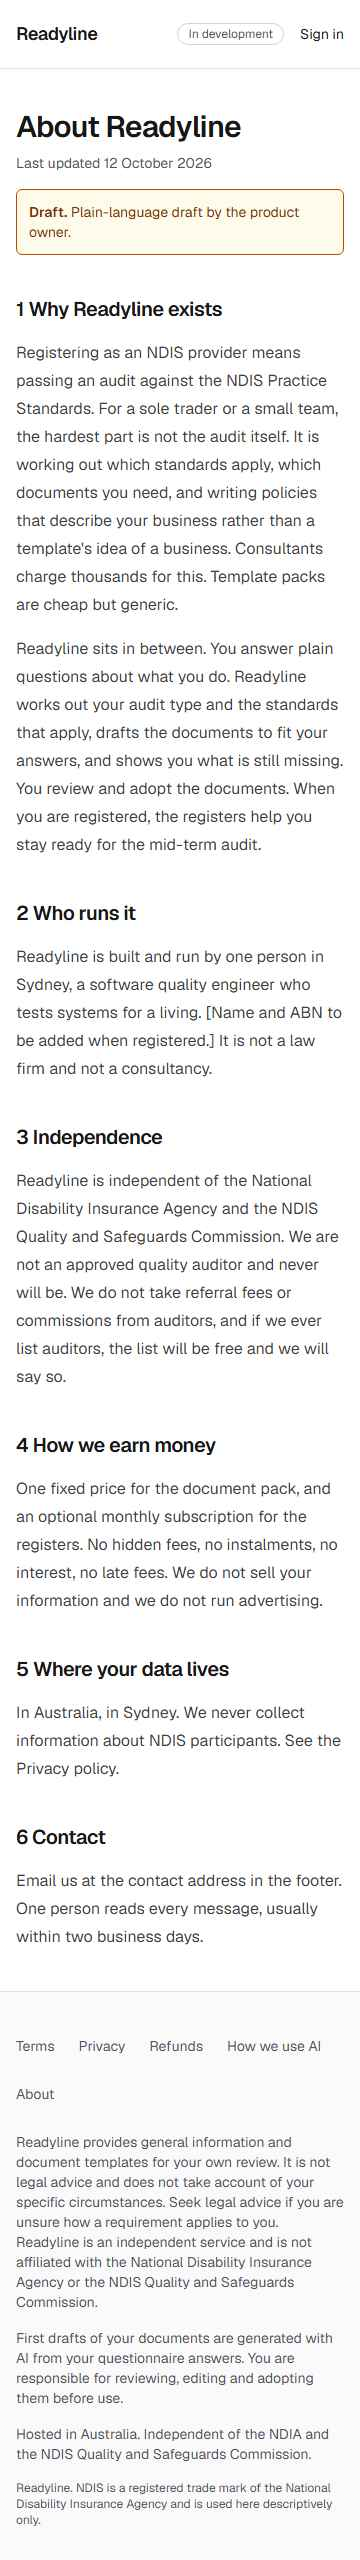
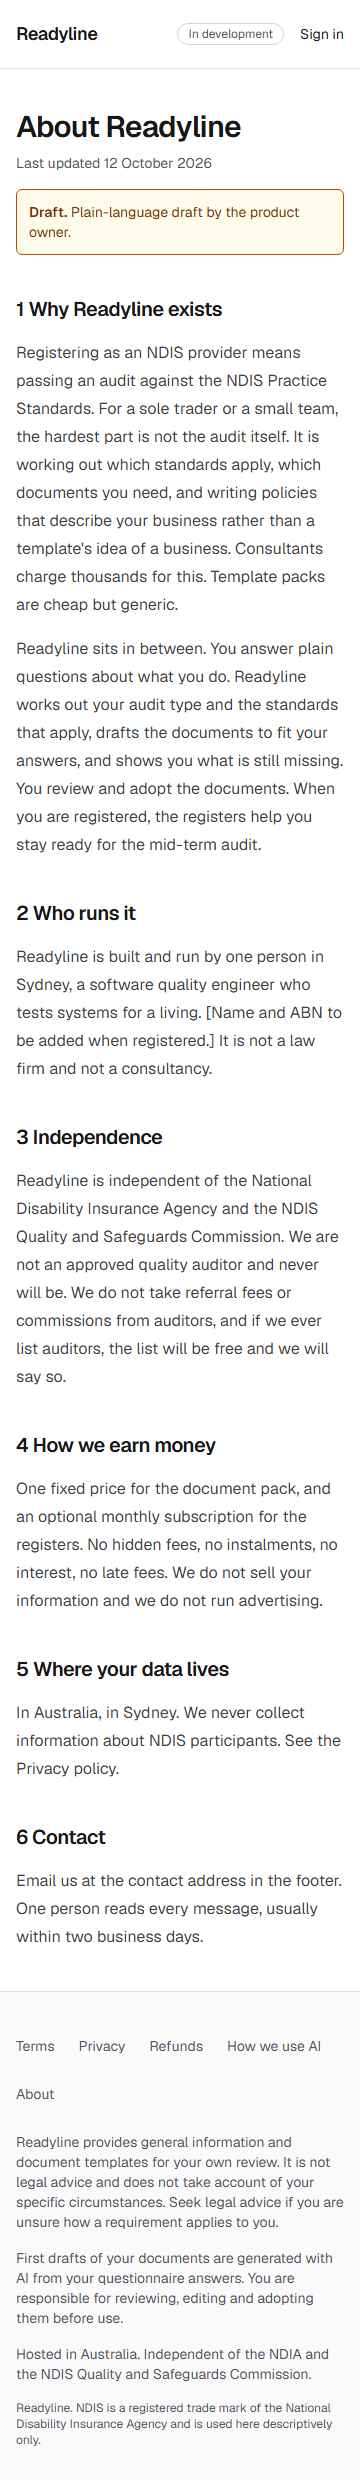
REQ-008 footer: state independence once (trust line), general-information statement without it (D-805)
GENERAL_INFORMATION_NOTICE is composed from GENERAL_INFORMATION_STATEMENT and INDEPENDENCE_STATEMENT so
generated documents keep the full notice; the footer shows the statement, the AI disclosure and the trust
line. Footer screenshots re-captured at both viewports.

Changed region(s): [[0.0306, 0.0, 0.9472, 0.9935], [0.9167, 0.0931, 0.9472, 0.1242]]

diff --git a/src/lib/claims.test.ts b/src/lib/claims.test.ts
@@ -4,7 +4,13 @@ import {
   findProhibitedClaims,
   isBrandNameAllowed,
 } from "./claims";
-import { AI_DISCLOSURE, BRAND, GENERAL_INFORMATION_NOTICE } from "./brand";
+import {
+  AI_DISCLOSURE,
+  BRAND,
+  GENERAL_INFORMATION_NOTICE,
+  GENERAL_INFORMATION_STATEMENT,
+  INDEPENDENCE_STATEMENT,
+} from "./brand";
 
 describe("findProhibitedClaims", () => {
   it.each([
@@ -77,6 +83,17 @@ describe("brand and site notices", () => {
     expect(GENERAL_INFORMATION_NOTICE).toMatch(/seek legal advice/i);
     expect(GENERAL_INFORMATION_NOTICE).toMatch(/not affiliated/i);
     expect(findProhibitedClaims(GENERAL_INFORMATION_NOTICE)).toEqual([]);
+    // The footer shows the statement without the independence sentence (its trust line says it once).
+    expect(GENERAL_INFORMATION_STATEMENT).toMatch(/general information/i);
+    expect(GENERAL_INFORMATION_STATEMENT).toMatch(/not legal advice/i);
+    expect(GENERAL_INFORMATION_STATEMENT).toMatch(/seek legal advice/i);
+    expect(GENERAL_INFORMATION_STATEMENT).not.toMatch(
+      /affiliated|independent/i,
+    );
+    expect(INDEPENDENCE_STATEMENT).toMatch(/not affiliated/i);
+    expect(GENERAL_INFORMATION_NOTICE).toBe(
+      `${GENERAL_INFORMATION_STATEMENT} ${INDEPENDENCE_STATEMENT}`,
+    );
   });
 
   it("AI disclosure names AI and the provider's responsibility", () => {

diff --git a/src/lib/brand.ts b/src/lib/brand.ts
@@ -13,12 +13,17 @@ export const BRAND =
  * Plain-language statement required on the site footer and in every generated
  * document (CLAUDE.md sections 4.2 and 4.3).
  */
-export const GENERAL_INFORMATION_NOTICE =
+export const GENERAL_INFORMATION_STATEMENT =
   `${BRAND} provides general information and document templates for your own review. ` +
   `It is not legal advice and does not take account of your specific circumstances. ` +
-  `Seek legal advice if you are unsure how a requirement applies to you. ` +
+  `Seek legal advice if you are unsure how a requirement applies to you.`;
+
+export const INDEPENDENCE_STATEMENT =
   `${BRAND} is an independent service and is not affiliated with the National Disability ` +
   `Insurance Agency or the NDIS Quality and Safeguards Commission.`;
+
+/** Documents carry both sentences together; the site footer carries the statement and its own trust line (REQ-008, D-805). */
+export const GENERAL_INFORMATION_NOTICE = `${GENERAL_INFORMATION_STATEMENT} ${INDEPENDENCE_STATEMENT}`;
 
 /**
  * AI transparency statement (CLAUDE.md sections 4.3 and 5).

diff --git a/src/components/site-footer.tsx b/src/components/site-footer.tsx
@@ -1,5 +1,9 @@
 import Link from "next/link";
-import { AI_DISCLOSURE, BRAND, GENERAL_INFORMATION_NOTICE } from "@/lib/brand";
+import {
+  AI_DISCLOSURE,
+  BRAND,
+  GENERAL_INFORMATION_STATEMENT,
+} from "@/lib/brand";
 import { businessAbn, contactEmail } from "@/lib/legal/config";
 import { LEGAL_NAV } from "@/lib/legal/nav";
 
@@ -40,7 +44,8 @@ export function SiteFooter() {
             ) : null}
           </ul>
         </nav>
-        <p data-testid="site-disclaimer">{GENERAL_INFORMATION_NOTICE}</p>
+        {/* Independence is stated once, in the trust line below (PO review of REQ-008). */}
+        <p data-testid="site-disclaimer">{GENERAL_INFORMATION_STATEMENT}</p>
         <p data-testid="ai-disclosure">{AI_DISCLOSURE}</p>
         <p data-testid="footer-trust">
           Hosted in Australia. Independent of the NDIA and the NDIS Quality and

diff --git a/product/requirements/REQ-008-legal-trust-pages.md b/product/requirements/REQ-008-legal-trust-pages.md
@@ -84,5 +84,7 @@ Noted: the PO owes the copy in `product/legal/` and has delivered first drafts; 
 
 Push: branch `req-008-legal-pages`; the PO opens the PR.
 
+**2026-10-12 (batch 15, item 3), footer dedupe on `req-008-footer-dedupe` from `main` (PR #12 merged).** The footer's general-information paragraph no longer carries the independence sentence; the trust line states it once (D-805). `GENERAL_INFORMATION_NOTICE` is unchanged in content for generated documents (now composed from `GENERAL_INFORMATION_STATEMENT` and `INDEPENDENCE_STATEMENT`), with a unit test pinning the split. Footer screenshots re-captured at both viewports into `product/evidence/req-008/footer-<project>.jpg` (the five page screenshots and request logs were re-captured in the same run).
+
 ## PO review
 **12 Oct 2026 (branch `req-008-legal-pages`, 792e113; PR #12): ACCEPTED.** Pages, footer, draft note, last-updated line and the no-third-party test are as specified; screenshots reviewed at 360 px. D-801 (own front-matter parser instead of gray-matter), D-802 (quoted banned words on the AI page exempt from the claims lint, on that page only) and D-803 (readability module copied until PR #9 merges) accepted. One cosmetic item for a later batch, not blocking: the footer states independence from the NDIA and the Commission twice (in the general-information paragraph and in the trust line); keep the trust line and shorten the paragraph. Merge when CI is green. Lighthouse: Haider records the score once when he next runs the app.

diff --git a/DECISIONS.md b/DECISIONS.md
@@ -810,6 +810,15 @@ Both are listed in `.env.example`, and `CONTACT_EMAIL` in `REQUIRED_LATER`.
 The no-third-party test allows only the app host and the Supabase project
 host; Stripe hosts are added per purchase route by REQ-007.
 
+**D-805 Footer states independence once (Dev, 2026-10-12, PO review of
+REQ-008; branch `req-008-footer-dedupe`).** `GENERAL_INFORMATION_NOTICE` is
+now the general-information statement (three sentences) followed by the
+independence statement, as two exported constants. Generated documents keep
+the full notice (CLAUDE.md 4.2 and the house style's fixed text are
+unchanged); the site footer shows the statement, the AI disclosure and the
+trust line "Hosted in Australia. Independent of the NDIA and the NDIS Quality
+and Safeguards Commission.", so independence appears once on the page.
+
 ## REQ-013: first-time user experience (branch `req-013-first-time-ux`)
 
 Decision numbers D-13xx on this branch.
